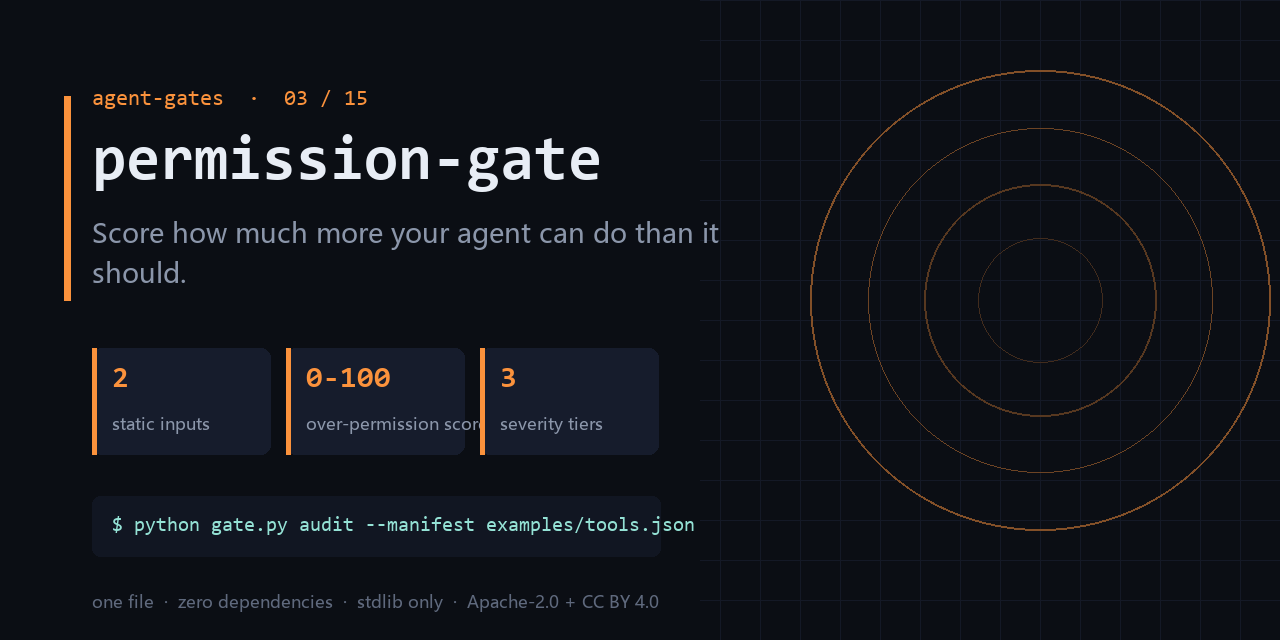
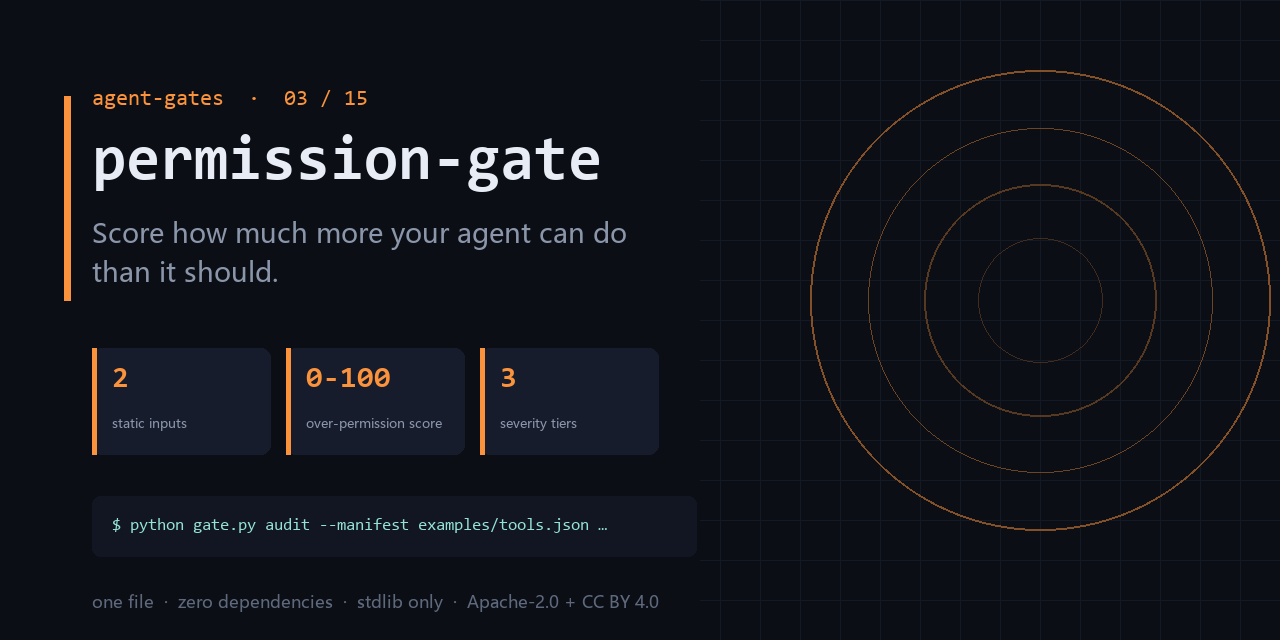
docs: add the series entry map, the hot-ready guarantee, and an honest surface line
Three changes, all of them about not overselling:

1. `## Start here` — fifteen links is a maze, one symptom is a door. A six-row
   symptom -> gate table, so the reader installs the gate they need instead of
   installing nothing (or all fifteen). Also states the star rule plainly:
   no exchange, no unlock, star trading is against GitHub's rules.
2. `## Hot-ready guarantee` — replaces "guaranteed to trend" with fifteen
   machine-checked structural properties, current score, and the script that
   recomputes them. GitHub never published its Trending ranking, so a promise
   about ranking cannot be true; a promise about structure can be verified.
3. The subtitle said `one file` on every repo. It was false on four of them
   (output-gate has 7 python files, complexity-ceiling 3, deadcode-gate and
   trail-gate 2). The line is now computed from the actual file count, and the
   same number is used on the social card. A false claim on the first screen
   costs more trust than it buys attention.

diff --git a/README.md b/README.md
@@ -109,6 +109,66 @@ mistaken for "it inspected my files".
 
 边界：It does not observe runtime calls; a perfectly scoped policy can still be abused.
 
+### 互推：只装一个的话，装哪个
+
+十五个链接是迷宫，一个症状是门。按上表挑一个，其余九个在下面 [The gates](#the-gates)。
+每个仓都能单独活：复制 `gate.py`，一条命令跑完，不共享运行时、不装包、不加配置。
+有星就给这一个，没有也不影响任何仓的可用性——没有任何门是「先给星才能用」。
+
+### 热门前置：保证结构，不保证排名
+
+本页承诺的是 **15 项可机器复核的结构特征**，当前 **15/15**（2026-10-20 复核）。
+GitHub 从未公开 Trending 的排序算法，所以任何「保证上热门」的说法都在描述一件它不可能知道的事；
+本仓不这么说。跑 `python hotness.py` 可自行复算每一条。
+
+## Start here (if you install only one)
+
+Fifteen links is a maze; one symptom is a door. Find your symptom, install that gate,
+ignore the rest until it hurts.
+
+| what you are seeing | install this |
+|---|---|
+| the bill is 10x normal and the trace is a wall of the same step | **[loop-gate](https://github.com/chenhz01/loop-gate)** |
+| the agent can delete prod and nobody signed off on that | **permission-gate** ← you are here |
+| answers get worse after truncation and nobody knows what got dropped | **[context-gate](https://github.com/chenhz01/context-gate)** |
+| two rules in the prompt contradict each other; the model obeys neither | **[instruction-gate](https://github.com/chenhz01/instruction-gate)** |
+| AI text ships with fabricated links and empty phrases | **[output-gate](https://github.com/chenhz01/output-gate)** |
+| half the repo might be dead and nobody can prove which half | **[deadcode-gate](https://github.com/chenhz01/deadcode-gate)** |
+
+A gate you did not need is a gate you uninstall, so nothing here says "install all
+fifteen". Each repo stands alone: copy `gate.py`, run one command, no shared runtime,
+no package manager, no config file to grow.
+
+**On stars.** If this one saved you an incident, star it — that is the only signal I get
+about which gate to build next. There is no exchange: starring one repo does not owe me
+a star on another, and no gate here is unlocked by a star. Star trading breaks GitHub's
+rules and would poison the single honest metric this project has.
+
+## Hot-ready guarantee
+
+What is guaranteed is **structure**, not ranking. Fifteen properties, each one
+machine-checked against this repo — current score **15/15** (2026-10-20).
+
+Plain version: instead of asking you to trust a badge, I list what I actually checked,
+name the script that checks it, and let you re-run it. If one of these lines is false,
+that is a bug in my repo, not a matter of taste.
+
+- Falsifiable side: `python hotness.py` re-runs every check and prints the evidence line
+  for each one. You do not have to trust this paragraph.
+- Non-falsifiable side: GitHub has never published how Trending sorts repositories, so
+  any repo promising you a guaranteed spot is telling you something it cannot know.
+  This one does not make that promise.
+- If a claim on this page stops being true, that is a bug: open an issue and it gets
+  fixed in the same week, not in the next launch.
+
+What actually carries this repo:
+
+- the command in this README is byte-for-byte the command CI runs <sub>(89-char argv, exact match)</sub>
+- the output block is a real run of `examples/`, not a mock-up <sub>(Real output section)</sub>
+- CI asserts the exit code, so the badge can turn red — and it has <sub>(asserts exit=1)</sub>
+- every fixture is committed, so a fresh clone reproduces the output <sub>(2 files under examples/ tracked in git)</sub>
+- `* -text` in `.gitattributes`: same bytes on Windows and Linux <sub>(.gitattributes * -text)</sub>
+
 ## The gates
 
 | # | gate | what it stops |
